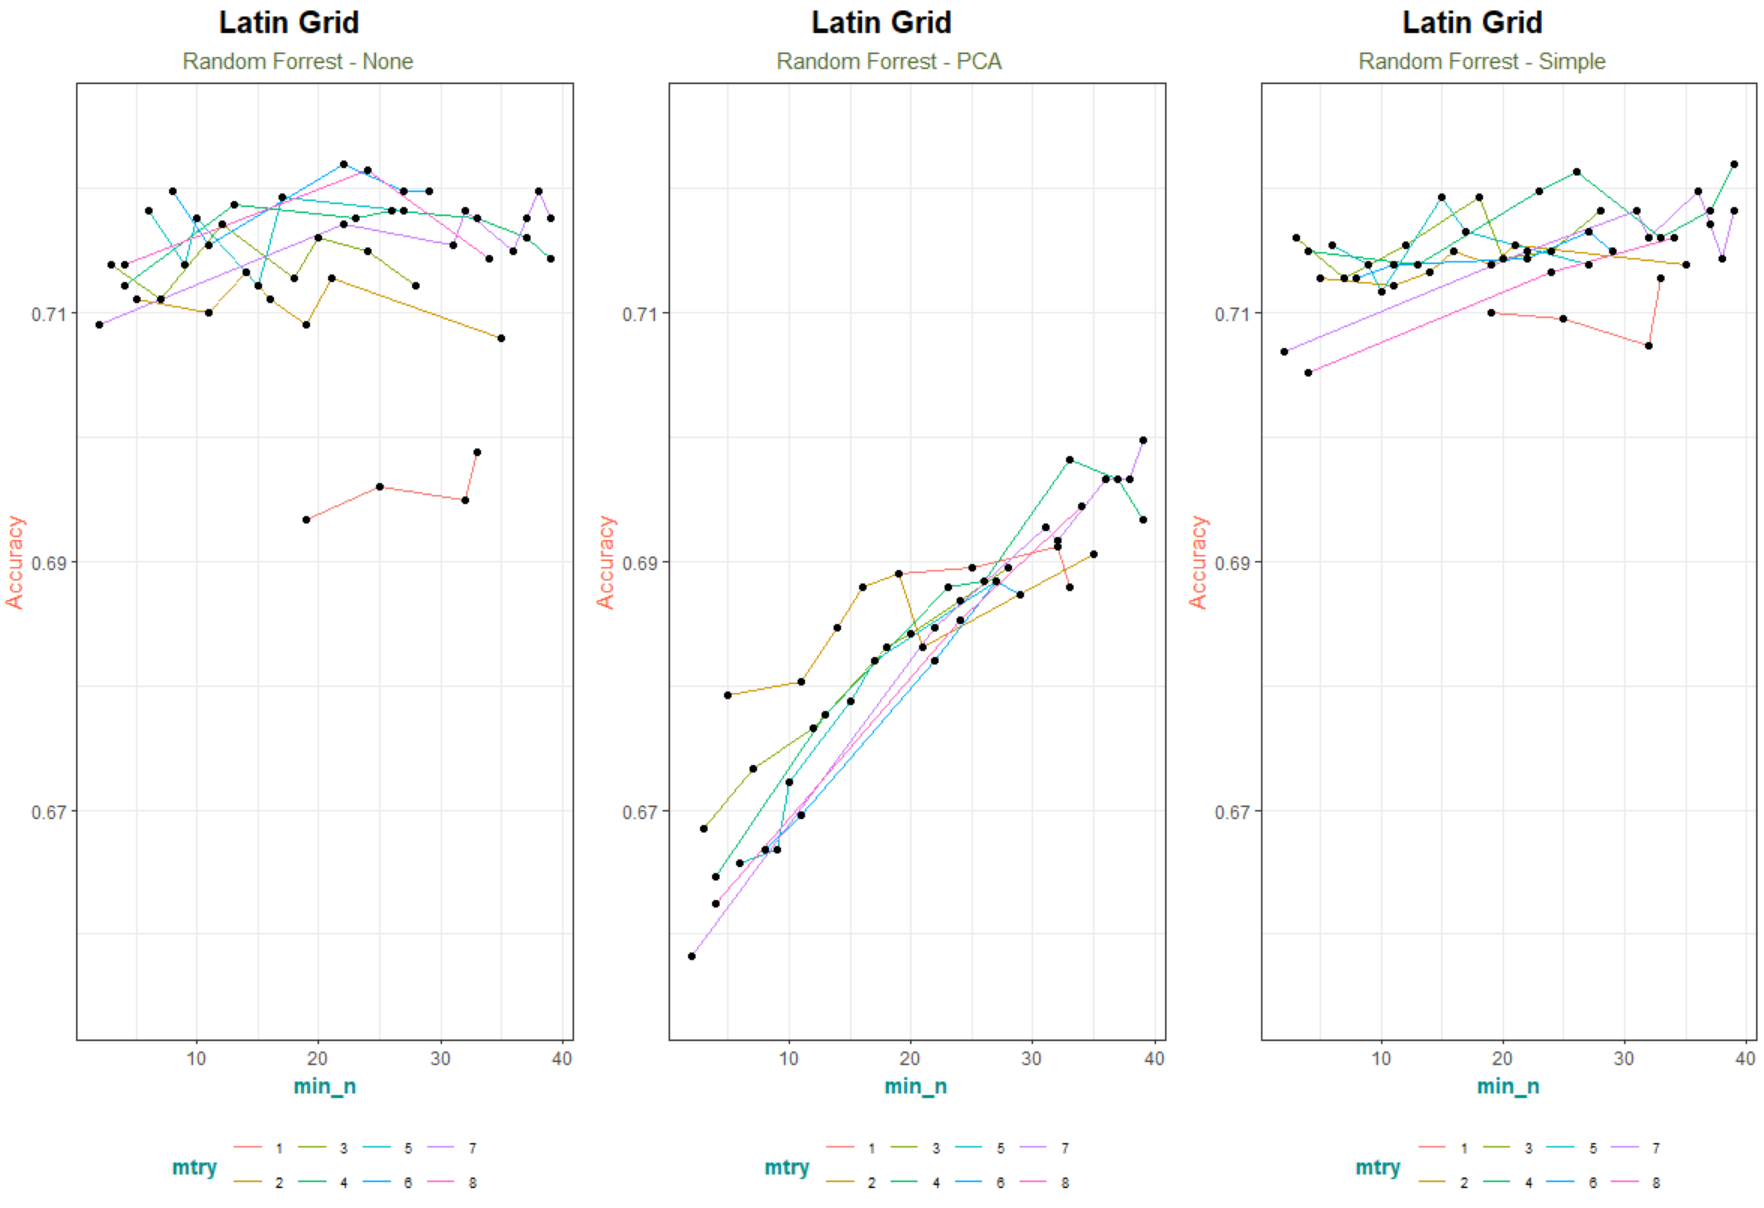
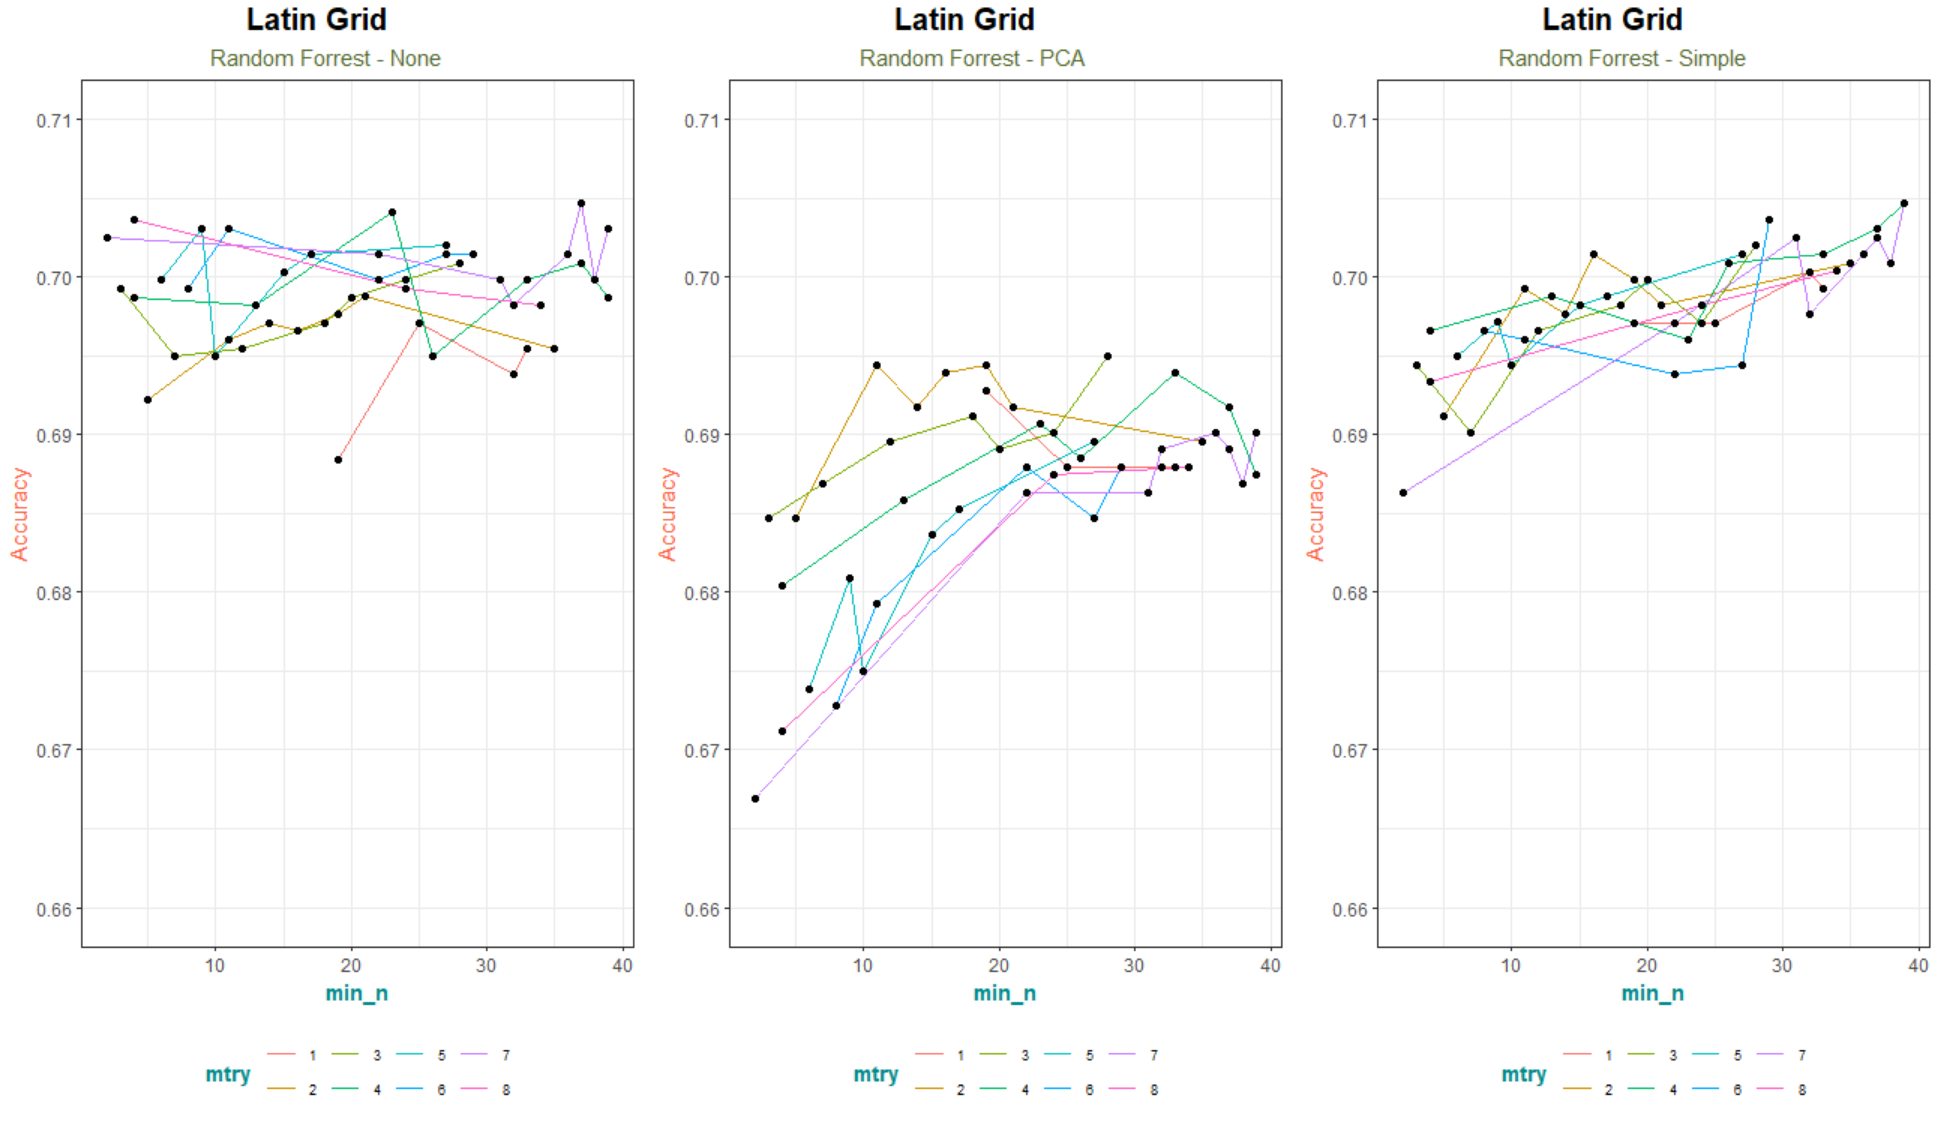
README

diff --git a/README.md b/README.md
@@ -181,16 +181,20 @@ drafted | chr | What NFL team drafted player / Round / Pick / Year
 - **Dummy**: All categorical variables
 
 **Model Data**
+
 <img src="Images/Model_Log_Normal.PNG" width=" 700">
 
 #### PCA
 **Eigen**
+
 <img src="Images/Model_Log_PCA_Eig.PNG" width=" 700">
 
 **Components**
+
 <img src="Images/Model_Log_PCA_Components.PNG" width=" 700">
 
 **Model Data**
+
 <img src="Images/Model_Log_PCA.PNG" width=" 700">
 
 ### Simple
@@ -202,21 +206,29 @@ drafted | chr | What NFL team drafted player / Round / Pick / Year
 #### NORMAL
 
 **Model Data**
+
 <img src="Images/Model_RF_Normal.PNG" width=" 700">
 
 #### PCA
 **Model Data**
+
 <img src="Images/Model_RF_PCA.PNG" width=" 700">
 
 #### Simple
 **Model Data**
+
 <img src="Images/Model_RF_Simple.PNG" width=" 700">
 
 ### Control
 - **Parallel Processing**
 
 ### Metrics
- - [AUC | Sensitivity | Specificity | Precision | F1]
+ - **AUC:** Measure of performance across all possible class
+ - **Accuracy:** What percentage did the model correctly predicted who got drafted and who didn't
+ - **Sensitivity:** Out of all the players that got actually got drafted what percentage did the model predict correctly
+ - **Specificity:** Out of all the players that got did not get drafted what percentage did the model predict correctly
+ - **Precision:** Out of all the players the Model predicted got Drafted what percentage actually got Drafted ?
+ - **F1:** Balance between Precision and Recall "Sensitivity"
 
 ## Fit
 
@@ -239,12 +251,12 @@ drafted | chr | What NFL team drafted player / Round / Pick / Year
 
 Preprocess | Metric | Penalty | Mixture | Stat
 --- | --- | --- | --- | ---
-Normal | Accuracy | 0.00957 | 0.984 | 68.6%
-PCA  | Accuracy | 2.39e-10 | 0.794 | 69.1%
-Simple | Accuracy | 2.24e-5 | 0.152 | 70.2%
-Normal | F Score | 0.116 | 0.0558 | 79.7%
-PCA  | F Score | 0.116 | 0.0558 | 79.9%
-Simple | F Score | 0.0216 | 0.916 | 80%
+Normal | Accuracy | 0.00148 | 0.539 | 71%
+PCA  | Accuracy | 7.22e-6 | 0.331 | 69.3%
+Simple | Accuracy | 3.73e-5 | 0.735 | 69.3%
+Normal | F Score | 0.00957 | 0.984 | 80.5%
+PCA  | F Score | 0.0216 | 0.916 | 80.1%
+Simple | F Score | 0.0216 | 0.916 | 79.8%
 
 #### Custom Grid
 
@@ -258,12 +270,12 @@ Simple | F Score | 0.0216 | 0.916 | 80%
 
 Preprocess | Metric | Penalty | Mixture | Stat
 --- | --- | --- | --- | ---
-Normal | Accuracy | 0.056 | 0 | 68.8%
-PCA  | Accuracy | 0.081 | 0 | 69.2%
-Simple | Accuracy | 0.006 | 1 | 68.8%
-Normal | F Score | 0.026 | 0.5 | 79.7%
-PCA  | F Score | 0.036 | 0.5 | 80%
-Simple | F Score | 0.031 | 0.5 | 80.1%
+Normal | Accuracy | 0.001 | 1 | 71%
+PCA  | Accuracy | 0.016 | 1 | 69%
+Simple | Accuracy | 0.001 | 0 | 69.3%
+Normal | F Score | 0.011 | 1 | 80.5%
+PCA  | F Score | 0.041 | 0.5 | 80.2%
+Simple | F Score | 0.016 | 1 | 80%
 
 
 ### Random Forest
@@ -286,12 +298,12 @@ Simple | F Score | 0.031 | 0.5 | 80.1%
 
 Preprocess | Metric | mtry | min_n | Stat
 --- | --- | --- | --- | ---
-None | Accuracy | 6 | 22 | 72.2%
-PCA  | Accuracy | 7 | 39 | 70%
-Simple | Accuracy | 4 | 39 | 72.2%
-None | F Score | 6 | 22 | 80.4%
-PCA  | F Score | 1 | 32 | 79.7%
-Simple | F Score | 1 | 33 | 80.8%
+None | Accuracy | 7 | 37 | 70.5%
+PCA  | Accuracy | 3 | 28 | 69.5%
+Simple | Accuracy | 7 | 39 | 70.5%
+None | F Score | 1 | 25 | 80.3%
+PCA  | F Score | 1 | 19 | 80.1%
+Simple | F Score | 1 | 32 | 80.3%
 
 #### Custom Grid
 
@@ -305,12 +317,12 @@ Simple | F Score | 1 | 33 | 80.8%
 
 Preprocess | Metric | mtry | min_n | Stat
 --- | --- | --- | --- | ---
-None | Accuracy | 5 | 9 | 72%
-PCA  | Accuracy | 1 | 3 | 68.7%
-Simple | Accuracy | 2 | 5 | 71.9%
-None | F Score | 4 | 1 | 80.3%
-PCA  | F Score | 1 | 3 | 79.2%
-Simple | F Score | 1 | 7 | 80.6%
+None | Accuracy | 8 | 7 | 70.3%
+PCA  | Accuracy | 1 | 1 | 69.3%
+Simple | Accuracy | 5 | 5 | 70.5%
+None | F Score | 1 | 7 | 80.1%
+PCA  | F Score | 1 | 1 | 80.1%
+Simple | F Score | 1 | 9 | 80.1%
 
 ---
 
@@ -327,8 +339,8 @@ Simple | F Score | 1 | 7 | 80.6%
 ### Metrics
 Optimization | AUC | Accuracy | Sensitivity | Specificity | Precision | F1 | PPV | NPV
 --- | --- | --- | --- | --- | --- | --- | --- | ---
-Accuracy | 0.676 | 0.687 | 0.904 | 0.277 | 0.703 | 0.791 | 0.703 | 0.603
-F Score | 0.658 | 0.683 | 0.963 | 0.151 | 0.682 | 0.799 | 0.682 | 0.686
+Accuracy | 0.732 | 0.735 | 0.917 | 0.39 | 0.74 | 0.819 | 0.74 | 0.713
+F Score | 0.724 | 0.68 | 0.953 | 0.164 | 0.683 | 0.796 | 0.65 | 0.65
 
 ## Random Forrest
 
@@ -341,8 +353,8 @@ F Score | 0.658 | 0.683 | 0.963 | 0.151 | 0.682 | 0.799 | 0.682 | 0.686
 ### Metrics
 Optimization | AUC | Accuracy | Sensitivity | Specificity | Precision | F1 | PPV | NPV
 --- | --- | --- | --- | --- | --- | --- | --- | ---
-Accuracy | 0.695 | 0.687 | 0.86 | 0.358 | 0.717 | 0.782 | 0.717 | 0.576
-F Score | 0.693 | 0.698 | 0.937 | 0.245 | 0.701 | 0.802 | 0.701 | 0.672
+Accuracy | 0.722 | 0.704 | 0.87 | 0.39 | 0.73 | 0.794 | 0.73 | 0.614
+F Score | 0.732 | 0.683 | 0.953 | 0.17 | 0.685 | 0.797 | 0.685 | 0.659
 
 ---
 # Refit: Probability Threshold
@@ -354,7 +366,7 @@ F Score | 0.693 | 0.698 | 0.937 | 0.245 | 0.701 | 0.802 | 0.701 | 0.672
 ### Metrics
 Optimization | AUC | Accuracy | Sensitivity | Specificity | Precision | F1 | PPV | NPV
 --- | --- | --- | --- | --- | --- | --- | --- | ---
-Accuracy (Thres 65%) |
+Accuracy (Thres 60%) | 0.732 | 0.722 | 0.777 | 0.616 | 0.793 | 0.785 | 0.793 | 0.594
 
 ## Random Forrest
 
@@ -364,4 +376,4 @@ Accuracy (Thres 65%) |
 ### Metrics
 Optimization | AUC | Accuracy | Sensitivity | Specificity | Precision | F1 | PPV | NPV
 --- | --- | --- | --- | --- | --- | --- | --- | ---
-Accuracy (Thres 40%) | 0.695 | 0.685 | 0.748 | 0.566 | 0.765 | 0.756 | 0.765 | 0.542
+Accuracy (Thres 60%) | 0.722 | 0.696 | 0.734 | 0.623 | 0.786 | 0.759 | 0.786 | 0.553
